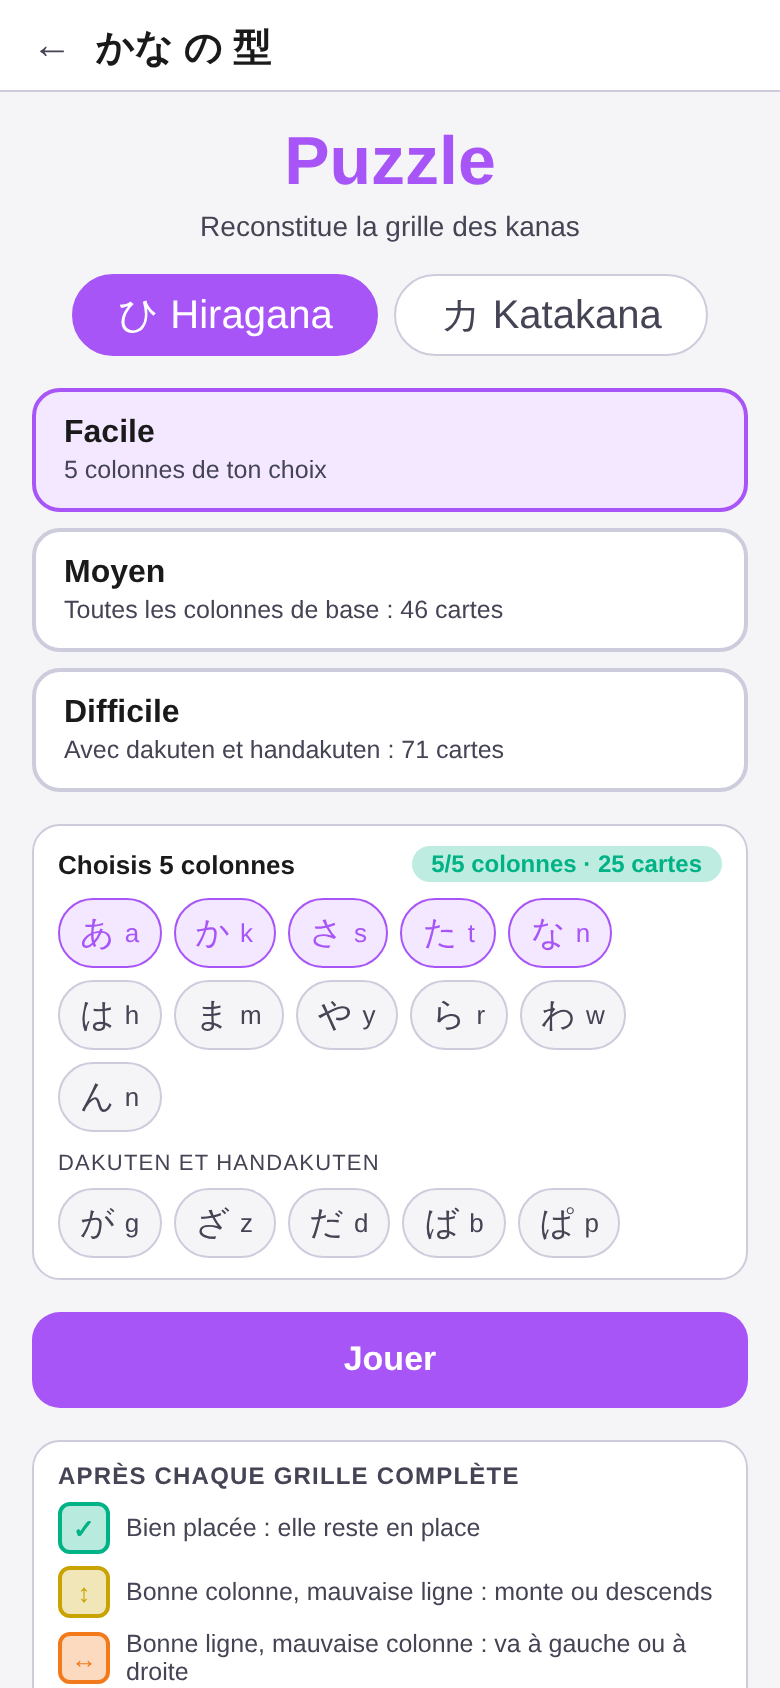
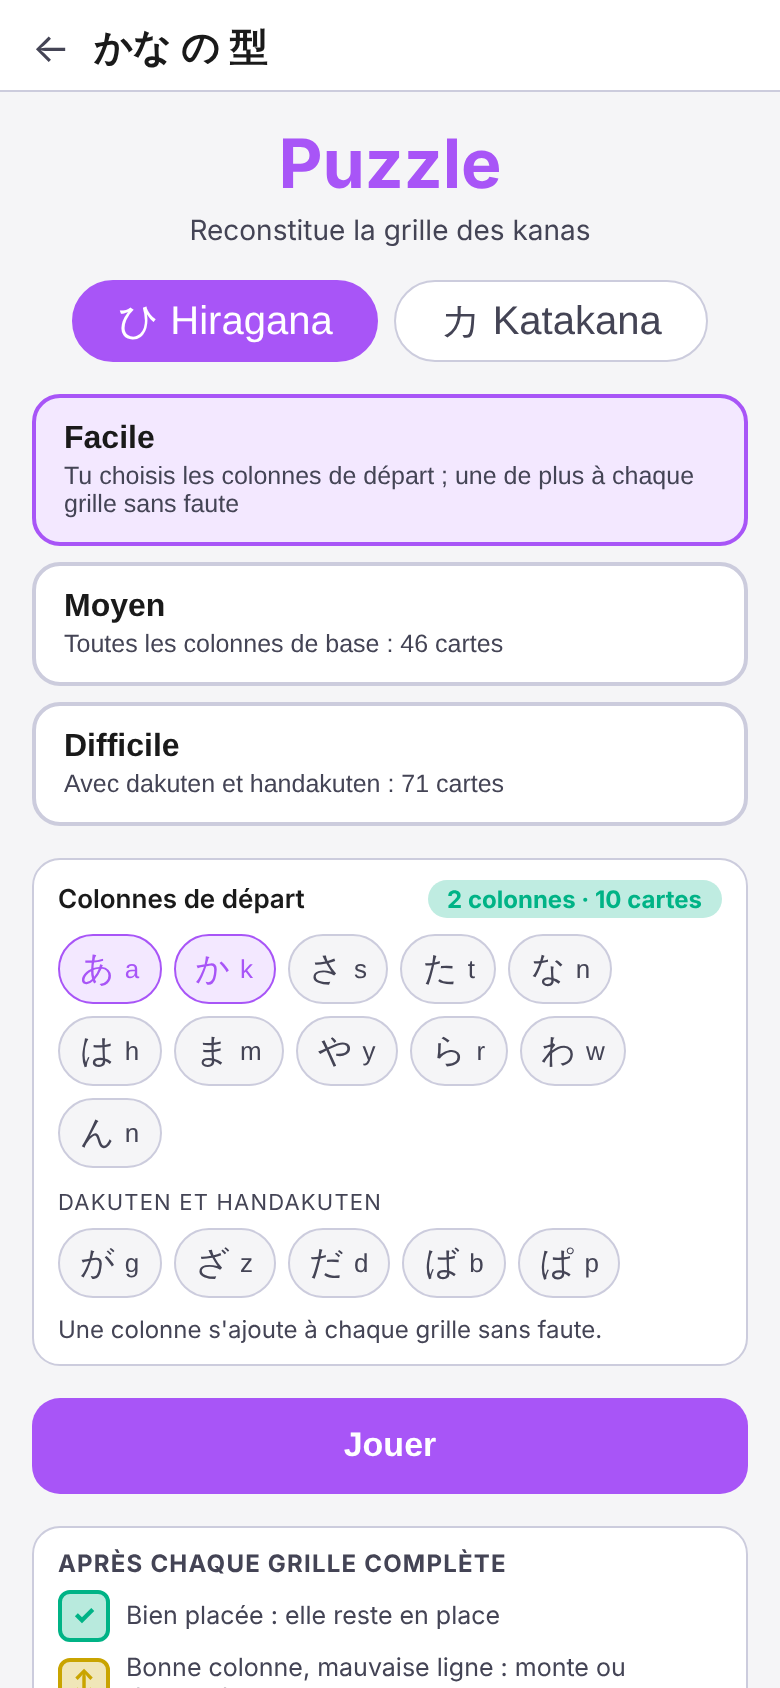
feat: niveau Facile progressif, une colonne s'ajoute à chaque grille sans faute (v57)
- Facile : on choisit au moins 1 colonne de départ (pas forcément voisines)
- Grille réussie en une manche : une colonne s'ajoute à la suivante
  - une seule colonne jouée : la suivante dans l'ordre, d'office
  - plusieurs colonnes : choix parmi les voisines (d'office s'il n'y en a qu'une)
- Meilleur score par ensemble de colonnes jouées
- Guide, README et captures d'écran mis à jour

Claude-Session: https://claude.ai/code/session_01EaqAnAXxbsNXE1RSZQCFmS

Changed region(s): [[0.0308, 0.0616, 0.9846, 1.0], [0.1231, 0.0, 0.2154, 0.0616], [0.2462, 0.0, 0.3385, 0.0616]]

diff --git a/puzzle.js b/puzzle.js
@@ -17,7 +17,7 @@
   const BEST_KEY = 'kana-puzzle-best';
 
   const LEVELS = {
-    easy: { name: 'Facile',    desc: '5 colonnes de ton choix' },
+    easy: { name: 'Facile',    desc: 'Tu choisis les colonnes de départ ; une de plus à chaque grille sans faute' },
     mid:  { name: 'Moyen',     desc: 'Toutes les colonnes de base : 46 cartes' },
     hard: { name: 'Difficile', desc: 'Avec dakuten et handakuten : 71 cartes' }
   };
@@ -42,10 +42,12 @@
 
   class PuzzleApp {
     constructor() {
-      // Préférences mémorisées (alphabet, niveau, colonnes du niveau Facile, œil)
-      this.prefs = loadJSON(PREFS_KEY, { script: 'h', level: 'mid', picked: [0, 1, 2, 3, 4], hints: true });
+      // Préférences mémorisées (alphabet, niveau, colonnes de départ du niveau Facile, œil)
+      this.prefs = loadJSON(PREFS_KEY, { script: 'h', level: 'mid', picked: [0], hints: true });
       this.best = loadJSON(BEST_KEY, {});
 
+      this.curCols = [];         // Facile : colonnes jouées dans la partie en cours (elles s'allongent au fil des grilles sans faute)
+      this.nextAdd = null;       // Facile : colonne qui sera ajoutée d'office à la prochaine grille (null = pas d'ajout automatique)
       this.game = null;          // PuzzleGame (modèle)
       this.clock = null;         // ScoreClock
       this.phase = 'select';     // 'select' | 'play' | 'check' | 'done'
@@ -70,17 +72,47 @@
 
     get picked() { return new Set(this.prefs.picked); }
 
+    // Colonnes d'une liste d'indices (position dans ALL_COLS), dans l'ordre de la grille
+    colsFrom(indexes) {
+      const set = new Set(indexes);
+      return ALL_COLS.filter((c, i) => set.has(i));
+    }
+
+    // Colonnes affichées à l'écran de sélection (en Facile : celles de départ)
     columnsForPrefs() {
       const { level } = this.prefs;
-      if (level === 'easy') return ALL_COLS.filter((c, i) => this.picked.has(i));
+      if (level === 'easy') return this.colsFrom(this.prefs.picked);
       return level === 'mid' ? BASE_COLS : ALL_COLS;
+    }
+
+    // Colonnes de la partie en cours (en Facile : les colonnes de départ + celles gagnées)
+    columnsForGame() {
+      return this.prefs.level === 'easy' ? this.colsFrom(this.curCols) : this.columnsForPrefs();
+    }
+
+    // Facile : quelles colonnes peut-on ajouter après une grille sans faute ?
+    //  - une seule colonne jouée : on ajoute d'office la suivante dans l'ordre (a → k → s…),
+    //    ou la précédente si on est déjà à la toute dernière ;
+    //  - plusieurs colonnes : le joueur choisit parmi les colonnes voisines (juste avant ou juste
+    //    après une colonne déjà jouée). S'il n'y en a qu'une, elle est ajoutée d'office.
+    nextChoices() {
+      const cur = new Set(this.curCols), last = ALL_COLS.length - 1;
+      if (cur.size === 1) {
+        const i = this.curCols[0];
+        return [i < last ? i + 1 : i - 1];
+      }
+      const out = [];
+      for (let i = 0; i <= last; i++) {
+        if (!cur.has(i) && (cur.has(i - 1) || cur.has(i + 1))) out.push(i);
+      }
+      return out;
     }
 
     cardCount(columns) { return columns.reduce((n, c) => n + c.s.filter(Boolean).length, 0); }
 
-    // Clé du meilleur score : alphabet + niveau (+ colonnes choisies en Facile)
-    bestKey(level = this.prefs.level) {
-      const cols = level === 'easy' ? [...this.picked].sort((a, b) => a - b).join(',') : '';
+    // Clé du meilleur score : alphabet + niveau (+ colonnes jouées en Facile)
+    bestKey(level = this.prefs.level, indexes = this.prefs.picked) {
+      const cols = level === 'easy' ? [...indexes].sort((a, b) => a - b).join(',') : '';
       return this.prefs.script + '|' + level + '|' + cols;
     }
 
@@ -90,7 +122,7 @@
       document.querySelectorAll('#pz-script button').forEach(b => {
         b.onclick = () => { this.prefs.script = b.dataset.s; this.save(); this.refreshSelect(); };
       });
-      $('#pz-start').onclick = () => this.startGame();
+      $('#pz-start').onclick = () => { this.curCols = [...this.prefs.picked]; this.startGame(); };
       this.refreshSelect();
     }
 
@@ -114,7 +146,7 @@
       });
     }
 
-    // Niveau Facile : on choisit exactement 5 colonnes parmi les 16
+    // Niveau Facile : on choisit les colonnes de départ (au moins une, pas forcément voisines)
     buildPicker() {
       const easy = this.prefs.level === 'easy';
       $('#pz-picker').style.display = easy ? '' : 'none';
@@ -131,20 +163,16 @@
         wrap.appendChild(chip);
       });
       const n = this.picked.size, cn = $('#pz-count');
-      cn.className = 'pz-count' + (n === 5 ? ' full' : '');
-      cn.textContent = n + '/5 colonnes · ' + this.cardCount(this.columnsForPrefs()) + ' cartes';
-      $('#pz-start').disabled = n !== 5;
+      cn.className = 'pz-count' + (n >= 1 ? ' full' : '');
+      cn.textContent = n === 0
+        ? 'Choisis au moins 1 colonne'
+        : n + (n > 1 ? ' colonnes' : ' colonne') + ' · ' + this.cardCount(this.columnsForPrefs()) + ' cartes';
+      $('#pz-start').disabled = n < 1;
     }
 
     togglePicked(i) {
       const set = this.picked;
-      if (set.has(i)) set.delete(i);
-      else if (set.size < 5) set.add(i);
-      else {
-        const cn = $('#pz-count'); cn.classList.add('warn'); cn.textContent = '5 maximum : retires-en une';
-        setTimeout(() => this.buildPicker(), 1400);
-        return;
-      }
+      if (set.has(i)) set.delete(i); else set.add(i);
       this.prefs.picked = [...set].sort((a, b) => a - b);
       this.save();
       this.buildLevels();     // le meilleur score dépend des colonnes choisies
@@ -158,7 +186,11 @@
     initGame() {
       $('#pz-leave').onclick = () => this.leaveGame();
       $('#pz-menu').onclick = () => this.leaveGame();
-      $('#pz-again').onclick = () => this.startGame();
+      $('#pz-again').onclick = () => {
+        if (this.nextAdd != null) this.curCols.push(this.nextAdd);   // Facile, grille sans faute : la colonne s'ajoute d'office
+        this.nextAdd = null;
+        this.startGame();
+      };
       $('#pz-skip').onclick = () => { if (this.skipBlink) this.skipBlink(); };
 
       // Œil : afficher / masquer les noms de colonnes et de lignes
@@ -200,13 +232,14 @@
 
     startGame() {
       this.stopTimers();
-      this.columns = this.columnsForPrefs();
+      this.columns = this.columnsForGame();
       this.game = new PuzzleGame(this.columns);
       this.clock = new ScoreClock(this.game.total);
       this.phase = 'idle';
       $('#pz-win').style.display = 'none';
       $('#pz-skip').style.display = 'none';
-      $('#pz-gtitle').textContent = (this.prefs.script === 'h' ? 'ひ' : 'カ') + ' ' + LEVELS[this.prefs.level].name;
+      const nbCols = this.prefs.level === 'easy' ? ' · ' + this.columns.length + ' col.' : '';
+      $('#pz-gtitle').textContent = (this.prefs.script === 'h' ? 'ひ' : 'カ') + ' ' + LEVELS[this.prefs.level].name + nbCols;
       this.show('screen-game');
       // On attend que l'écran soit affiché pour mesurer les zones
       requestAnimationFrame(() => {
@@ -485,7 +518,7 @@
       const score = this.clock.score;
       $('#pz-score').textContent = score + ' pts';
 
-      const key = this.bestKey();
+      const key = this.bestKey(this.prefs.level, this.curCols);
       const previous = this.best[key];
       const record = previous == null || score > previous;
       if (record) { this.best[key] = score; saveJSON(BEST_KEY, this.best); }
@@ -495,7 +528,39 @@
       $('#pz-win-score').innerHTML = score + ' <small>/ ' + this.clock.capital + ' pts</small>';
       $('#pz-win-rec').textContent = record ? (previous == null ? 'Premier score enregistré !' : 'Nouveau record !') : 'Record : ' + previous + ' pts';
       $('#pz-win-det').textContent = mmss + ' · ' + result.round + (result.round > 1 ? ' manches' : ' manche');
+      this.offerNextColumn(result.round === 1);
       $('#pz-win').style.display = 'block';
+    }
+
+    // Facile : après une grille SANS FAUTE (réussie en une seule manche), une colonne s'ajoute.
+    // Sinon on rejoue la même grille.
+    offerNextColumn(flawless) {
+      const again = $('#pz-again'), next = $('#pz-next'), chips = $('#pz-next-chips');
+      this.nextAdd = null;
+      next.style.display = 'none'; chips.innerHTML = '';
+      again.style.display = ''; again.textContent = 'Rejouer';
+      if (this.prefs.level !== 'easy') return;
+
+      const choices = flawless ? this.nextChoices() : [];
+      if (!choices.length) return;
+
+      const chars = this.prefs.script === 'h' ? H : K;
+      const labelOf = i => chars[ALL_COLS[i].s.find(Boolean)] + ' ' + ALL_COLS[i].label;
+      if (choices.length === 1) {
+        this.nextAdd = choices[0];
+        again.textContent = 'Continuer : + ' + labelOf(choices[0]);
+        return;
+      }
+      // plusieurs colonnes possibles : le joueur choisit, ce qui lance directement la grille suivante
+      again.style.display = 'none';
+      next.style.display = 'block';
+      choices.forEach(i => {
+        const chip = el('button', 'pz-chip');
+        chip.appendChild(el('span', 'k', chars[ALL_COLS[i].s.find(Boolean)]));
+        chip.appendChild(el('span', 'l', ALL_COLS[i].label));
+        chip.onclick = () => { this.curCols.push(i); this.startGame(); };
+        chips.appendChild(chip);
+      });
     }
 
     // ═════════ Compteurs ═════════

diff --git a/guide/index.html b/guide/index.html
@@ -215,7 +215,7 @@
 
       <div class="lever-card">
         <div class="lever-title"><span class="lever-num">1</span>Choisir l'alphabet et le niveau</div>
-        <p>Hiragana ou katakana, puis un niveau. Facile : tu choisis exactement 5 colonnes (25 cartes), idéal pour démarrer avec les premières familles. Moyen : les 46 kanas de base. Difficile : 71 kanas, avec dakuten et handakuten.</p>
+        <p>Hiragana ou katakana, puis un niveau. Facile : tu choisis les colonnes de départ (au moins 1, dans n'importe quel ordre, pas forcément voisines), idéal pour démarrer avec une seule famille. Dès qu'une grille est réussie sans aucune erreur (en une seule manche), une colonne s'ajoute à la grille suivante. Avec une seule colonne, la suivante dans l'ordre est ajoutée d'office (a, puis k, puis s…). Avec plusieurs colonnes, tu choisis parmi les colonnes voisines de celles déjà jouées ; s'il n'y en a qu'une, elle est ajoutée d'office. Si la grille comporte des erreurs, « Rejouer » relance la même grille sans ajout. Moyen : les 46 kanas de base. Difficile : 71 kanas, avec dakuten et handakuten.</p>
       </div>
       <div class="phone"><img src="img/puzzle_select.png" alt="Sélection du puzzle"></div>
 
@@ -233,9 +233,11 @@
 
       <div class="lever-card">
         <div class="lever-title"><span class="lever-num">4</span>Le score</div>
-        <p>Chaque carte vaut 10 points au départ, et tu perds 1 point par seconde, sans descendre sous 0. Le chrono démarre au premier toucher d'une carte et continue pendant le clignotement. Le meilleur score est conservé pour chaque combinaison alphabet, niveau et colonnes choisies : tu peux donc te comparer à toi-même.</p>
+        <p>Chaque carte vaut 10 points au départ, et tu perds 1 point par seconde, sans descendre sous 0. Le chrono démarre au premier toucher d'une carte et continue pendant le clignotement. Le meilleur score est conservé pour chaque combinaison alphabet, niveau et colonnes jouées (en Facile, chaque nouvel ensemble de colonnes a son propre record) : tu peux donc te comparer à toi-même.</p>
       </div>
       <div class="phone"><img src="img/puzzle_win.png" alt="Puzzle complet"></div>
+      <p class="intro">En niveau Facile, une grille réussie sans faute propose la colonne à ajouter pour la suivante :</p>
+      <div class="phone"><img src="img/puzzle_win_choice.png" alt="Choix de la colonne à ajouter en niveau Facile"></div>
 
       <div class="lever-card">
         <div class="lever-title"><span class="lever-num">5</span>Si le bas de l'écran est coupé</div>

diff --git a/puzzle.html b/puzzle.html
@@ -32,8 +32,9 @@
       </div>
       <div class="pz-levels" id="pz-levels"></div>
       <div class="pz-picker" id="pz-picker" style="display:none">
-        <div class="pz-picker-head"><span>Choisis 5 colonnes</span><span class="pz-count" id="pz-count"></span></div>
+        <div class="pz-picker-head"><span>Colonnes de départ</span><span class="pz-count" id="pz-count"></span></div>
         <div id="pz-chips"></div>
+        <p class="pz-picker-note">Une colonne s'ajoute à chaque grille sans faute.</p>
       </div>
       <button class="pz-play" id="pz-start">Jouer</button>
       <div class="pz-legend">
@@ -72,6 +73,10 @@
         <div class="score" id="pz-win-score"></div>
         <div class="rec" id="pz-win-rec"></div>
         <div class="det" id="pz-win-det"></div>
+        <div class="next" id="pz-next" style="display:none">
+          <div class="nt">Sans faute ! Quelle colonne ajouter ?</div>
+          <div id="pz-next-chips"></div>
+        </div>
         <div class="btns">
           <button class="pz-ghost" id="pz-menu">Menu</button>
           <button class="pz-play" id="pz-again" style="padding:8px 22px;font-size:15px">Rejouer</button>

diff --git a/puzzle.css b/puzzle.css
@@ -75,6 +75,7 @@
 }
 .pz-chip .k { font-size: 17px; }
 .pz-chip.on { background: var(--purple-light); border-color: var(--purple); color: var(--purple); }
+.pz-picker-note { margin: 8px 0 0; font-size: 12px; color: var(--text2); }
 .pz-chip-sep { flex-basis: 100%; font-size: 11px; text-transform: uppercase; letter-spacing: .6px; color: var(--text2); margin-top: 4px; }
 
 .pz-play {
@@ -155,4 +156,7 @@
 #pz-win .score small { font-size: 16px; font-weight: 600; color: var(--text2); }
 #pz-win .rec { font-size: 13px; font-weight: 700; color: var(--c-orange); min-height: 18px; }
 #pz-win .det { font-size: 13px; color: var(--text2); margin: 4px 0 14px; }
+#pz-win .next { margin: 0 0 14px; }
+#pz-win .next .nt { font-size: 13px; font-weight: 700; color: var(--c-green); margin-bottom: 8px; }
+#pz-next-chips { display: flex; flex-wrap: wrap; gap: 6px; justify-content: center; }
 #pz-win .btns { display: flex; gap: 8px; justify-content: center; }

diff --git a/sw.js b/sw.js
@@ -1,4 +1,4 @@
-const CACHE_NAME = 'kana-no-katas-v56';
+const CACHE_NAME = 'kana-no-katas-v57';
 const ASSETS = [
   './',
   'index.html',
@@ -27,6 +27,7 @@ const ASSETS = [
   'guide/img/puzzle_placing.png',
   'guide/img/puzzle_colors.png',
   'guide/img/puzzle_win.png',
+  'guide/img/puzzle_win_choice.png',
   'guide/img/puzzle_header.png',
   'strokes/reference_strokes.json',
   'strokes/h/a.svg',

diff --git a/README.md b/README.md
@@ -27,7 +27,7 @@ Fonctionne hors-ligne une fois installé comme PWA.
 - Une grille vide en haut, une pile de cartes mélangées et tournées en bas, à placer par glisser-déposer
 - Vérification quand la grille est pleine : vert (bien placée), jaune (bonne colonne), orange (bonne ligne), rouge (ni l'une ni l'autre)
 - Clignotement des cartes fausses pendant 10 s, puis retour dans la pile ; les cartes vertes restent verrouillées
-- Trois niveaux : Facile (5 colonnes au choix), Moyen (46 kanas), Difficile (71 kanas avec dakuten)
+- Trois niveaux : Facile (on choisit les colonnes de départ, une colonne s'ajoute à chaque grille sans faute), Moyen (46 kanas), Difficile (71 kanas avec dakuten)
 - Score : 10 points par carte, moins 1 point par seconde ; meilleur score conservé par alphabet, niveau et colonnes
 - Bouton œil pour masquer les noms des colonnes et lignes
 
